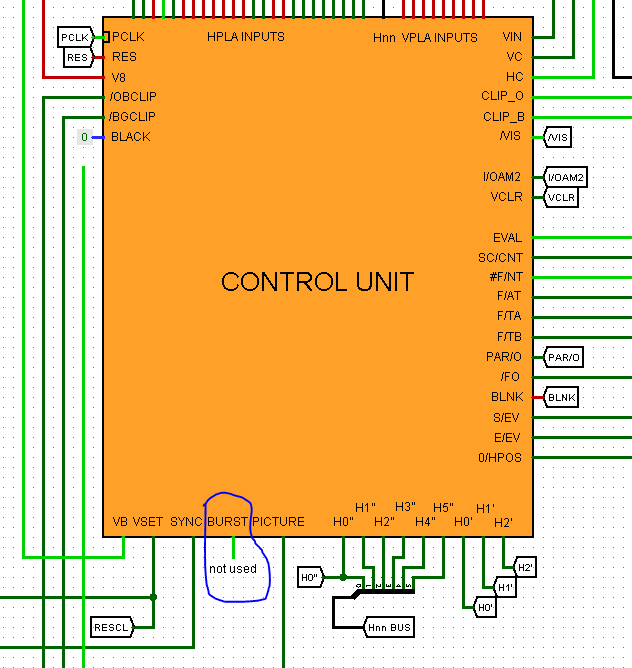
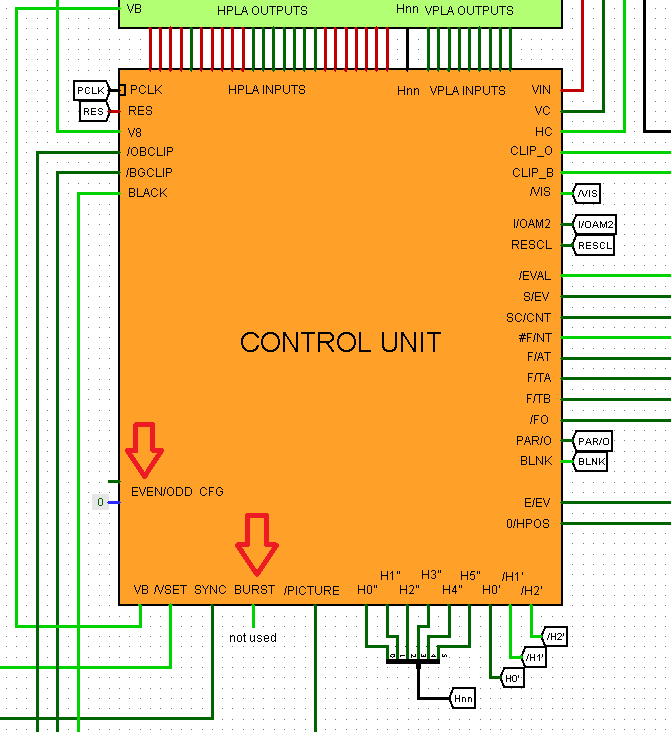
rgb.md

Changed region(s): [[0.0, 0.0, 1.0, 1.0], [0.3608, 0.3892, 0.6614, 0.479]]

diff --git a/BreakingNESWiki/PPU/rgb.md b/BreakingNESWiki/PPU/rgb.md
@@ -1,12 +1,37 @@
 # RGB PPU
 
+В данном разделе рассматриваются отличия RGB PPU RP2C04-0003, от референсного PPU 2C02G.
+
+На данный момент это единственные изображения RGB PPU, которыми мы распологаем. При этом есть фотографии только верхнего слоя, поэтому не всегда хорошо видно что находится под ним. Что-то частично удалось разглядеть, частично угадать, поэтому тут больше похоже на японский сканворд.
+
+Список основных отличий:
+- Контакты VOUT и EXT0-3 заменены на контакты RED, GREEN, BLUE, /SYNC, для для вывода компонентного видеосигнала.
+- Вместо генератора композитного видео используется схема RGB-кодирования. ЦАП с суммированием весовых токов.
+- Эмфазис включает соответсвующий выход канала на все единицы
+- Отсутствует возможность чтения OAM (нет регистровой операции `/R4`), по этой причине OAM Buffer устроен проще
+- Отсутствует возможность чтения CRAM, по этой причине Color Buffer устроен проще
+
+Есть предположение, что остальные RGB PPU не сильно отличаются от рассматриваемой 2C04-0003, поэтому этот раздел будет дополняться по мере получения фотографий других ревизий RGB PPU.
+
+|Номер|Контакт 2C02G|Контакт RGB PPU|
+|---|---|---|
+|14|EXT0|RED|
+|15|EXT1|GREEN|
+|16|EXT2|BLUE|
+|17|EXT3|AGND|
+|21|VOUT|/SYNC|
+
+Далее будут просто восстановленные схемы. Оригинальные изображения RGB PPU можно найти тут: https://siliconpr0n.org/map/nintendo/rp2c04-0003/
+
 ![2C04-0003_RGB_PPU](/BreakingNESWiki/imgstore/ppu/rgb/2C04-0003_RGB_PPU.png)
 
 ## FSM
 
 ![HV_FSM](/BreakingNESWiki/imgstore/ppu/rgb/HV_FSM.png)
 
-## ODD/EVEN
+## EVEN/ODD
+
+Схема Even/Odd присутствует но отключена, вход NOR, куда приходил сигнал `EvenOddOut` заземлен на корпус.
 
 ![evenodd_rgb](/BreakingNESWiki/imgstore/ppu/rgb/evenodd_rgb.png)
 
@@ -26,13 +51,19 @@
 
 ## CONTROL_REGS
 
+Сигнал `/SLAVE` не используется.
+
 ![Control_REGs](/BreakingNESWiki/imgstore/ppu/rgb/Control_REGs.png)
 
 ## MUX
 
+Входные сигналы `EXT_IN` равны `0`, а выходные сигналы `/EXT_OUT` не используются.
+
 ![MUX](/BreakingNESWiki/imgstore/ppu/rgb/MUX.png)
 
 ## OAM_BUF_CONTROL
+
+Уменьшена задержка при записи. Количество защёлок на 2 меньше, по сравнению с композитными ревизиями PPU.
 
 ![OAM_BUF_CONTROL](/BreakingNESWiki/imgstore/ppu/rgb/OAM_BUF_CONTROL.png)
 
@@ -43,10 +74,6 @@
 ## Video Out
 
 ![RGB_VIDEO_OUT](/BreakingNESWiki/imgstore/ppu/rgb/RGB_VIDEO_OUT.png)
-
-## RGB_DAC
-
-![RGB_DACs](/BreakingNESWiki/imgstore/ppu/rgb/RGB_DACs.png)
 
 ## SEL_12x3
 
@@ -64,4 +91,6 @@
 
 ![SEL16x12_RED](/BreakingNESWiki/imgstore/ppu/rgb/SEL16x12_RED.png)
 
+## RGB_DAC
 
+![RGB_DACs](/BreakingNESWiki/imgstore/ppu/rgb/RGB_DACs.png)

diff --git a/BreakingNESWiki_DeepL/PPU/rgb.md b/BreakingNESWiki_DeepL/PPU/rgb.md
@@ -1,32 +1,73 @@
 # RGB PPU
 
+This section discusses the differences between the RGB PPU RP2C04-0003, and the reference PPU 2C02G.
+
+At the moment, these are the only images of RGB PPU that we have. However, there are pictures of only the top layer, so it is not always good to see what is underneath. Something was partly visible, partly guessed, so here it looks more like a Japanese puzzle.
+
+List of major differences:
+- VOUT and EXT0-3 pins are replaced by RED, GREEN, BLUE, /SYNC pins, for component video signal output.
+- An RGB encoding circuit is used instead of a composite video generator. DAC with weighted current summation.
+- Emphasis applies the corresponding channel output to all one's
+- There is no possibility to read OAM (no `/R4` register operation), for this reason the OAM Buffer is arranged simpler
+- There is no possibility to read CRAM, for this reason the Color Buffer is simpler
+
+There is an assumption that the other RGB PPUs are not very different from the 2C04-0003, so this section will be updated as photos of other RGB PPU revisions become available.
+
+|Number|2C02G Terminal|RGB PPU Terminal|
+|---|---|---|
+|14|EXT0|RED|
+|15|EXT1|GREEN|
+|16|EXT2|BLUE|
+|17|EXT3|AGND|
+|21|VOUT|/SYNC|
+
+The following will simply be restored schematics. The original RGB PPU images can be found here: https://siliconpr0n.org/map/nintendo/rp2c04-0003/
+
 ![2C04-0003_RGB_PPU](/BreakingNESWiki/imgstore/ppu/rgb/2C04-0003_RGB_PPU.png)
 
 ## FSM
 
 ![HV_FSM](/BreakingNESWiki/imgstore/ppu/rgb/HV_FSM.png)
 
+## EVEN/ODD
+
+The Even/Odd circuit is present but disconnected, the NOR input where the `EvenOddOut` signal came is grounded.
+
 ![evenodd_rgb](/BreakingNESWiki/imgstore/ppu/rgb/evenodd_rgb.png)
 
 ![evdd](/BreakingNESWiki/imgstore/ppu/rgb/evdd.png)
 
-## CRAM
+## COLOR_CONTROL
 
 ![COLOR_CONTROL](/BreakingNESWiki/imgstore/ppu/rgb/COLOR_CONTROL.png)
 
+## CRAM
+
 ![COLOR_RAM](/BreakingNESWiki/imgstore/ppu/rgb/COLOR_RAM.png)
 
-## Middle Section
+## REG_SELECT
 
 ![REG_SELECT](/BreakingNESWiki/imgstore/ppu/rgb/REG_SELECT.png)
 
+## CONTROL_REGS
+
+The `/SLAVE` signal is not used.
+
 ![Control_REGs](/BreakingNESWiki/imgstore/ppu/rgb/Control_REGs.png)
+
+## MUX
+
+The input signals `EXT_IN` are `0` and the output signals `/EXT_OUT` are not used.
 
 ![MUX](/BreakingNESWiki/imgstore/ppu/rgb/MUX.png)
 
-## OAM
+## OAM_BUF_CONTROL
+
+Reduced write delay. The number of latches is 2 less compared to the composite PPU revisions.
 
 ![OAM_BUF_CONTROL](/BreakingNESWiki/imgstore/ppu/rgb/OAM_BUF_CONTROL.png)
+
+## OAM_BIT
 
 ![2C04_OAM_buf](/BreakingNESWiki/imgstore/ppu/rgb/2C04_OAM_buf.jpg)
 
@@ -34,14 +75,22 @@
 
 ![RGB_VIDEO_OUT](/BreakingNESWiki/imgstore/ppu/rgb/RGB_VIDEO_OUT.png)
 
-![RGB_DACs](/BreakingNESWiki/imgstore/ppu/rgb/RGB_DACs.png)
+## SEL_12x3
 
 ![SEL12x3](/BreakingNESWiki/imgstore/ppu/rgb/SEL12x3.png)
 
+## COLOR_DECODER_BLUE
+
 ![SEL16x12_BLUE](/BreakingNESWiki/imgstore/ppu/rgb/SEL16x12_BLUE.png)
+
+## COLOR_DECODER_GREEN
 
 ![SEL16x12_GREEN](/BreakingNESWiki/imgstore/ppu/rgb/SEL16x12_GREEN.png)
 
+## COLOR_DECODER_RED
+
 ![SEL16x12_RED](/BreakingNESWiki/imgstore/ppu/rgb/SEL16x12_RED.png)
 
-![SEL4x16](/BreakingNESWiki/imgstore/ppu/rgb/SEL4x16.png)
+## RGB_DAC
+
+![RGB_DACs](/BreakingNESWiki/imgstore/ppu/rgb/RGB_DACs.png)
